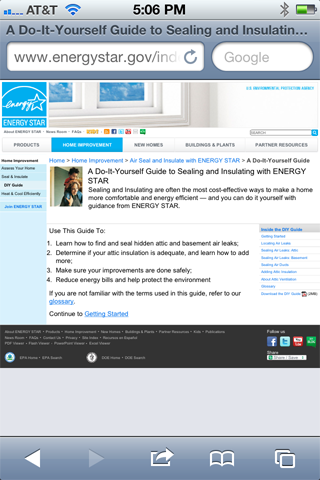
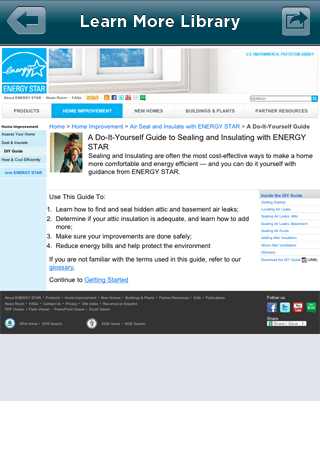
learn more URL

diff --git a/brackquick/app/webroot/RoR/game_iphone.html b/brackquick/app/webroot/RoR/game_iphone.html
@@ -844,12 +844,12 @@
 			
 			#browser {
 				width: 320px;
-				height: 480px;
+				height: 462px;
 				z-index: 10;
 				position: relative;
 				background: url(img/browser.png);
 				top: 486px;
-				display: none;
+				/* display: none; */
 			}
 			
 			#learnMoreGameTitle {
